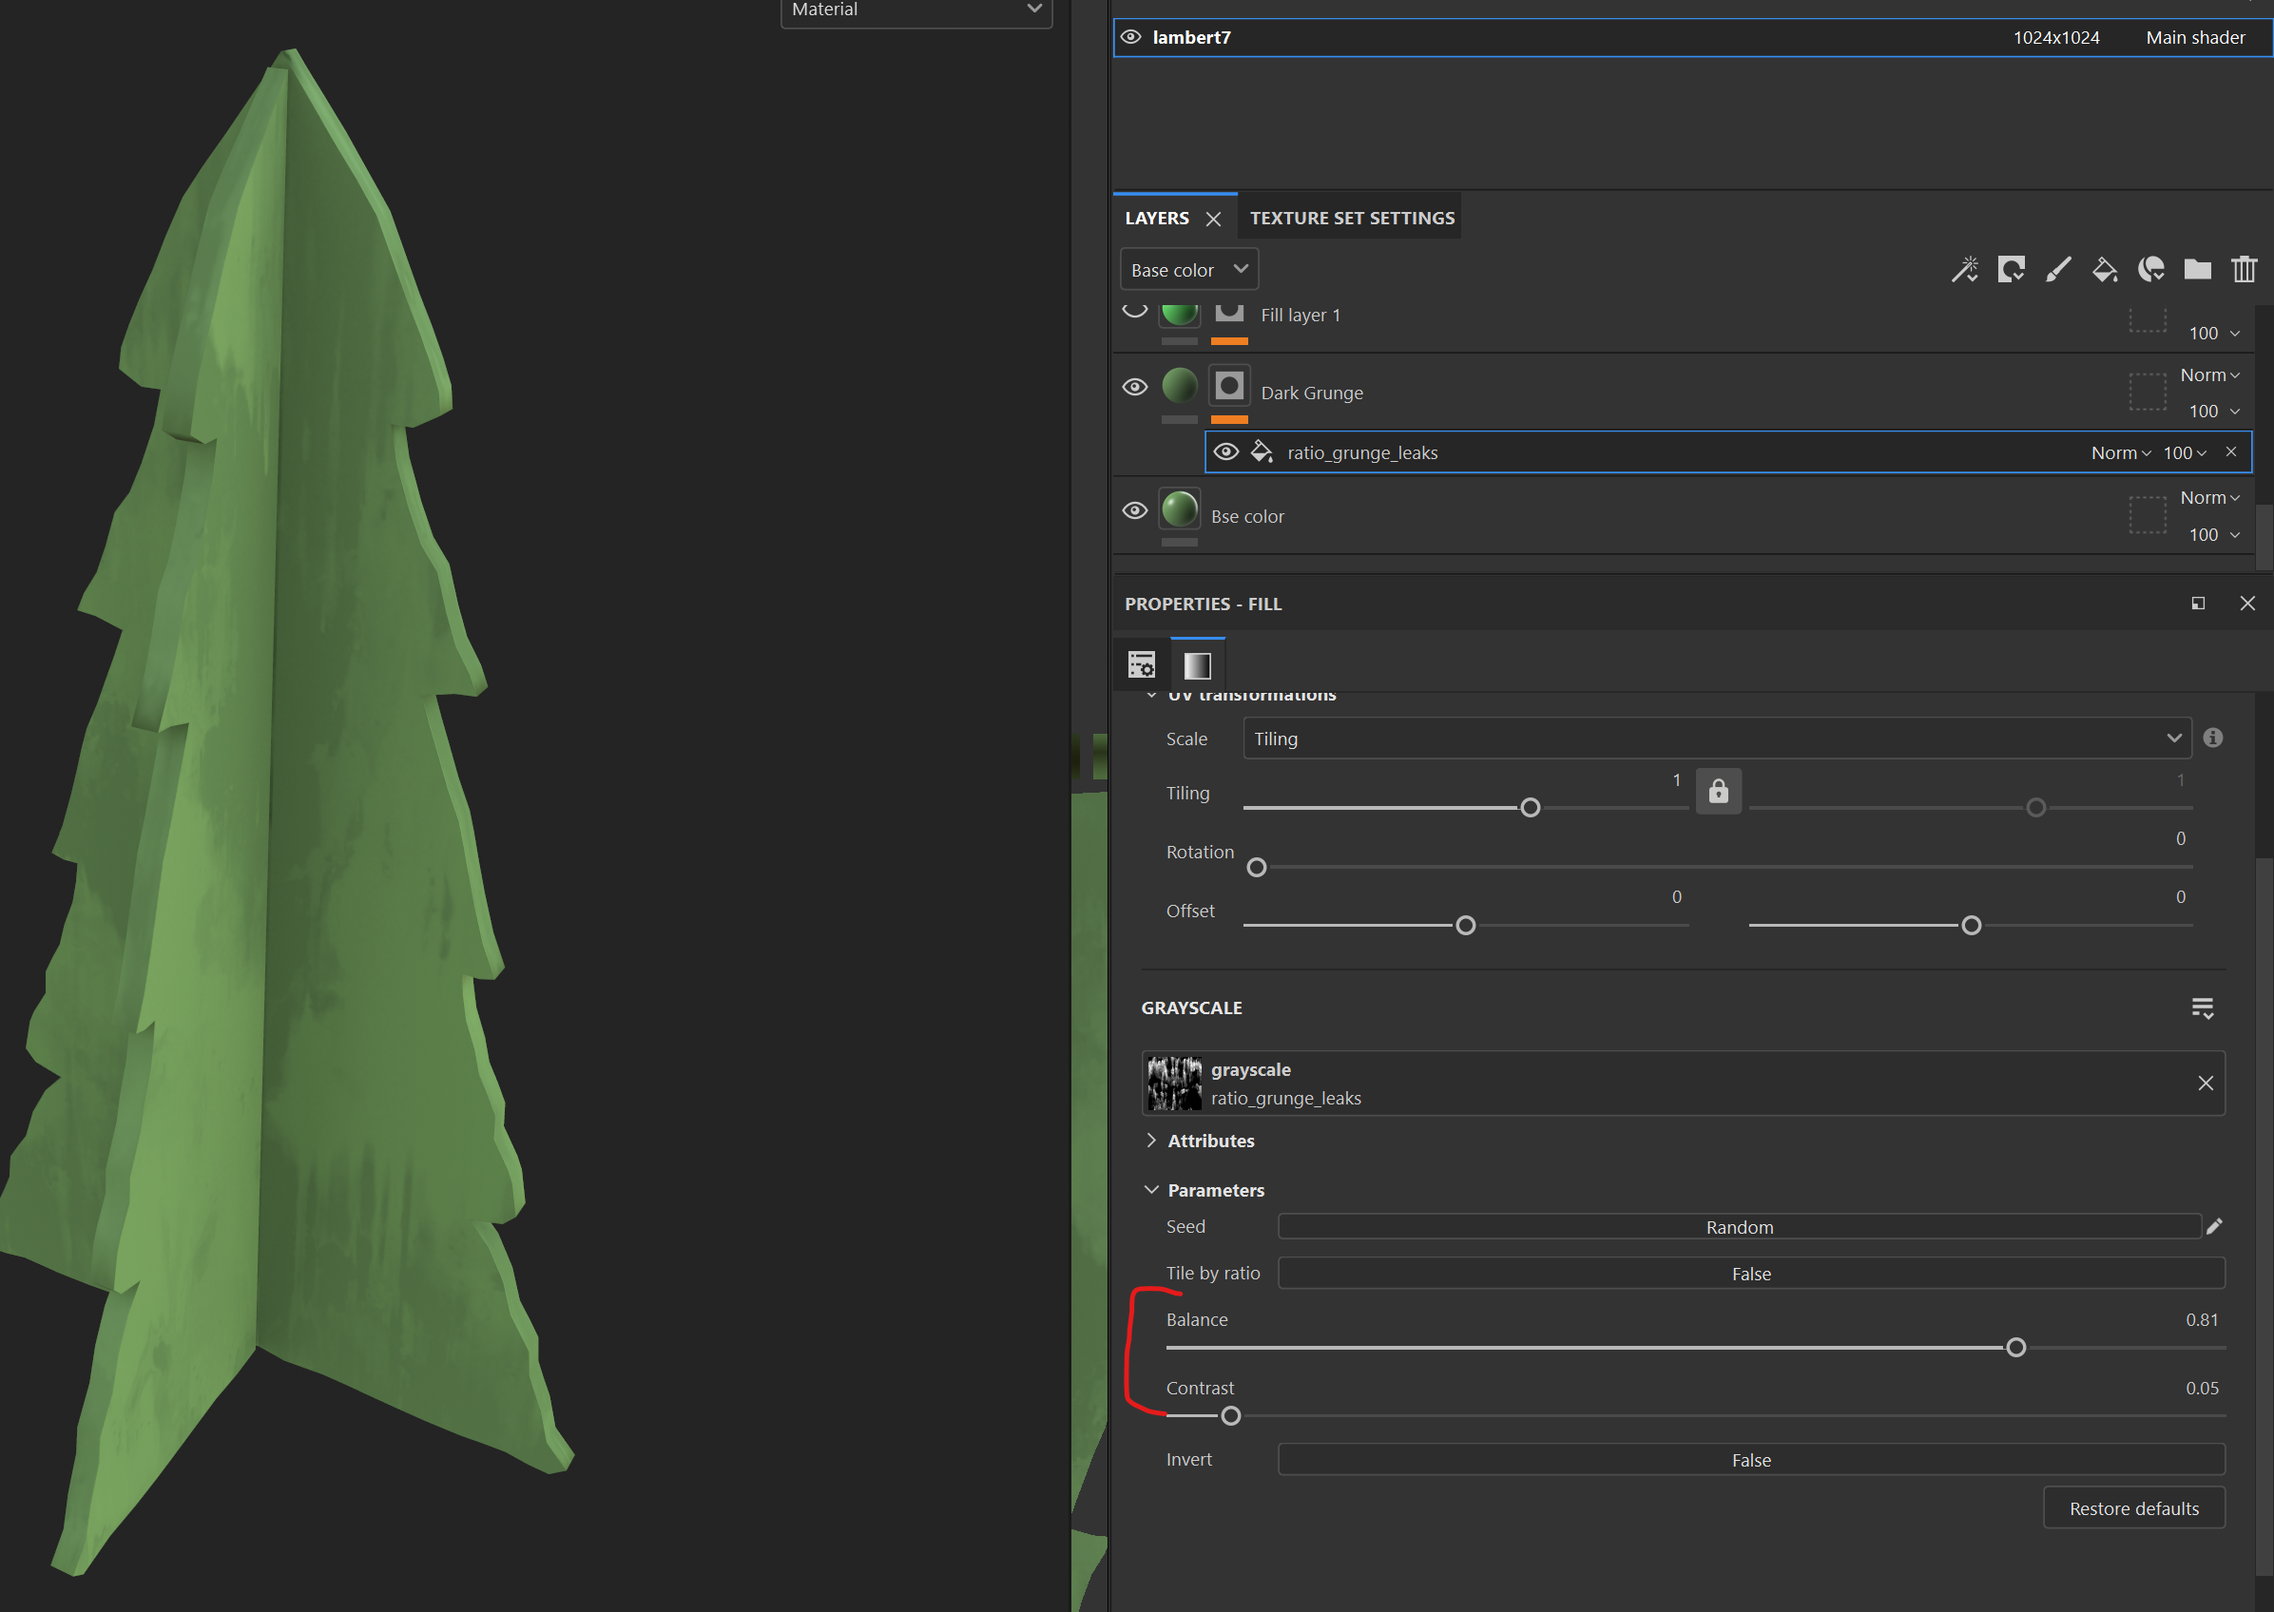
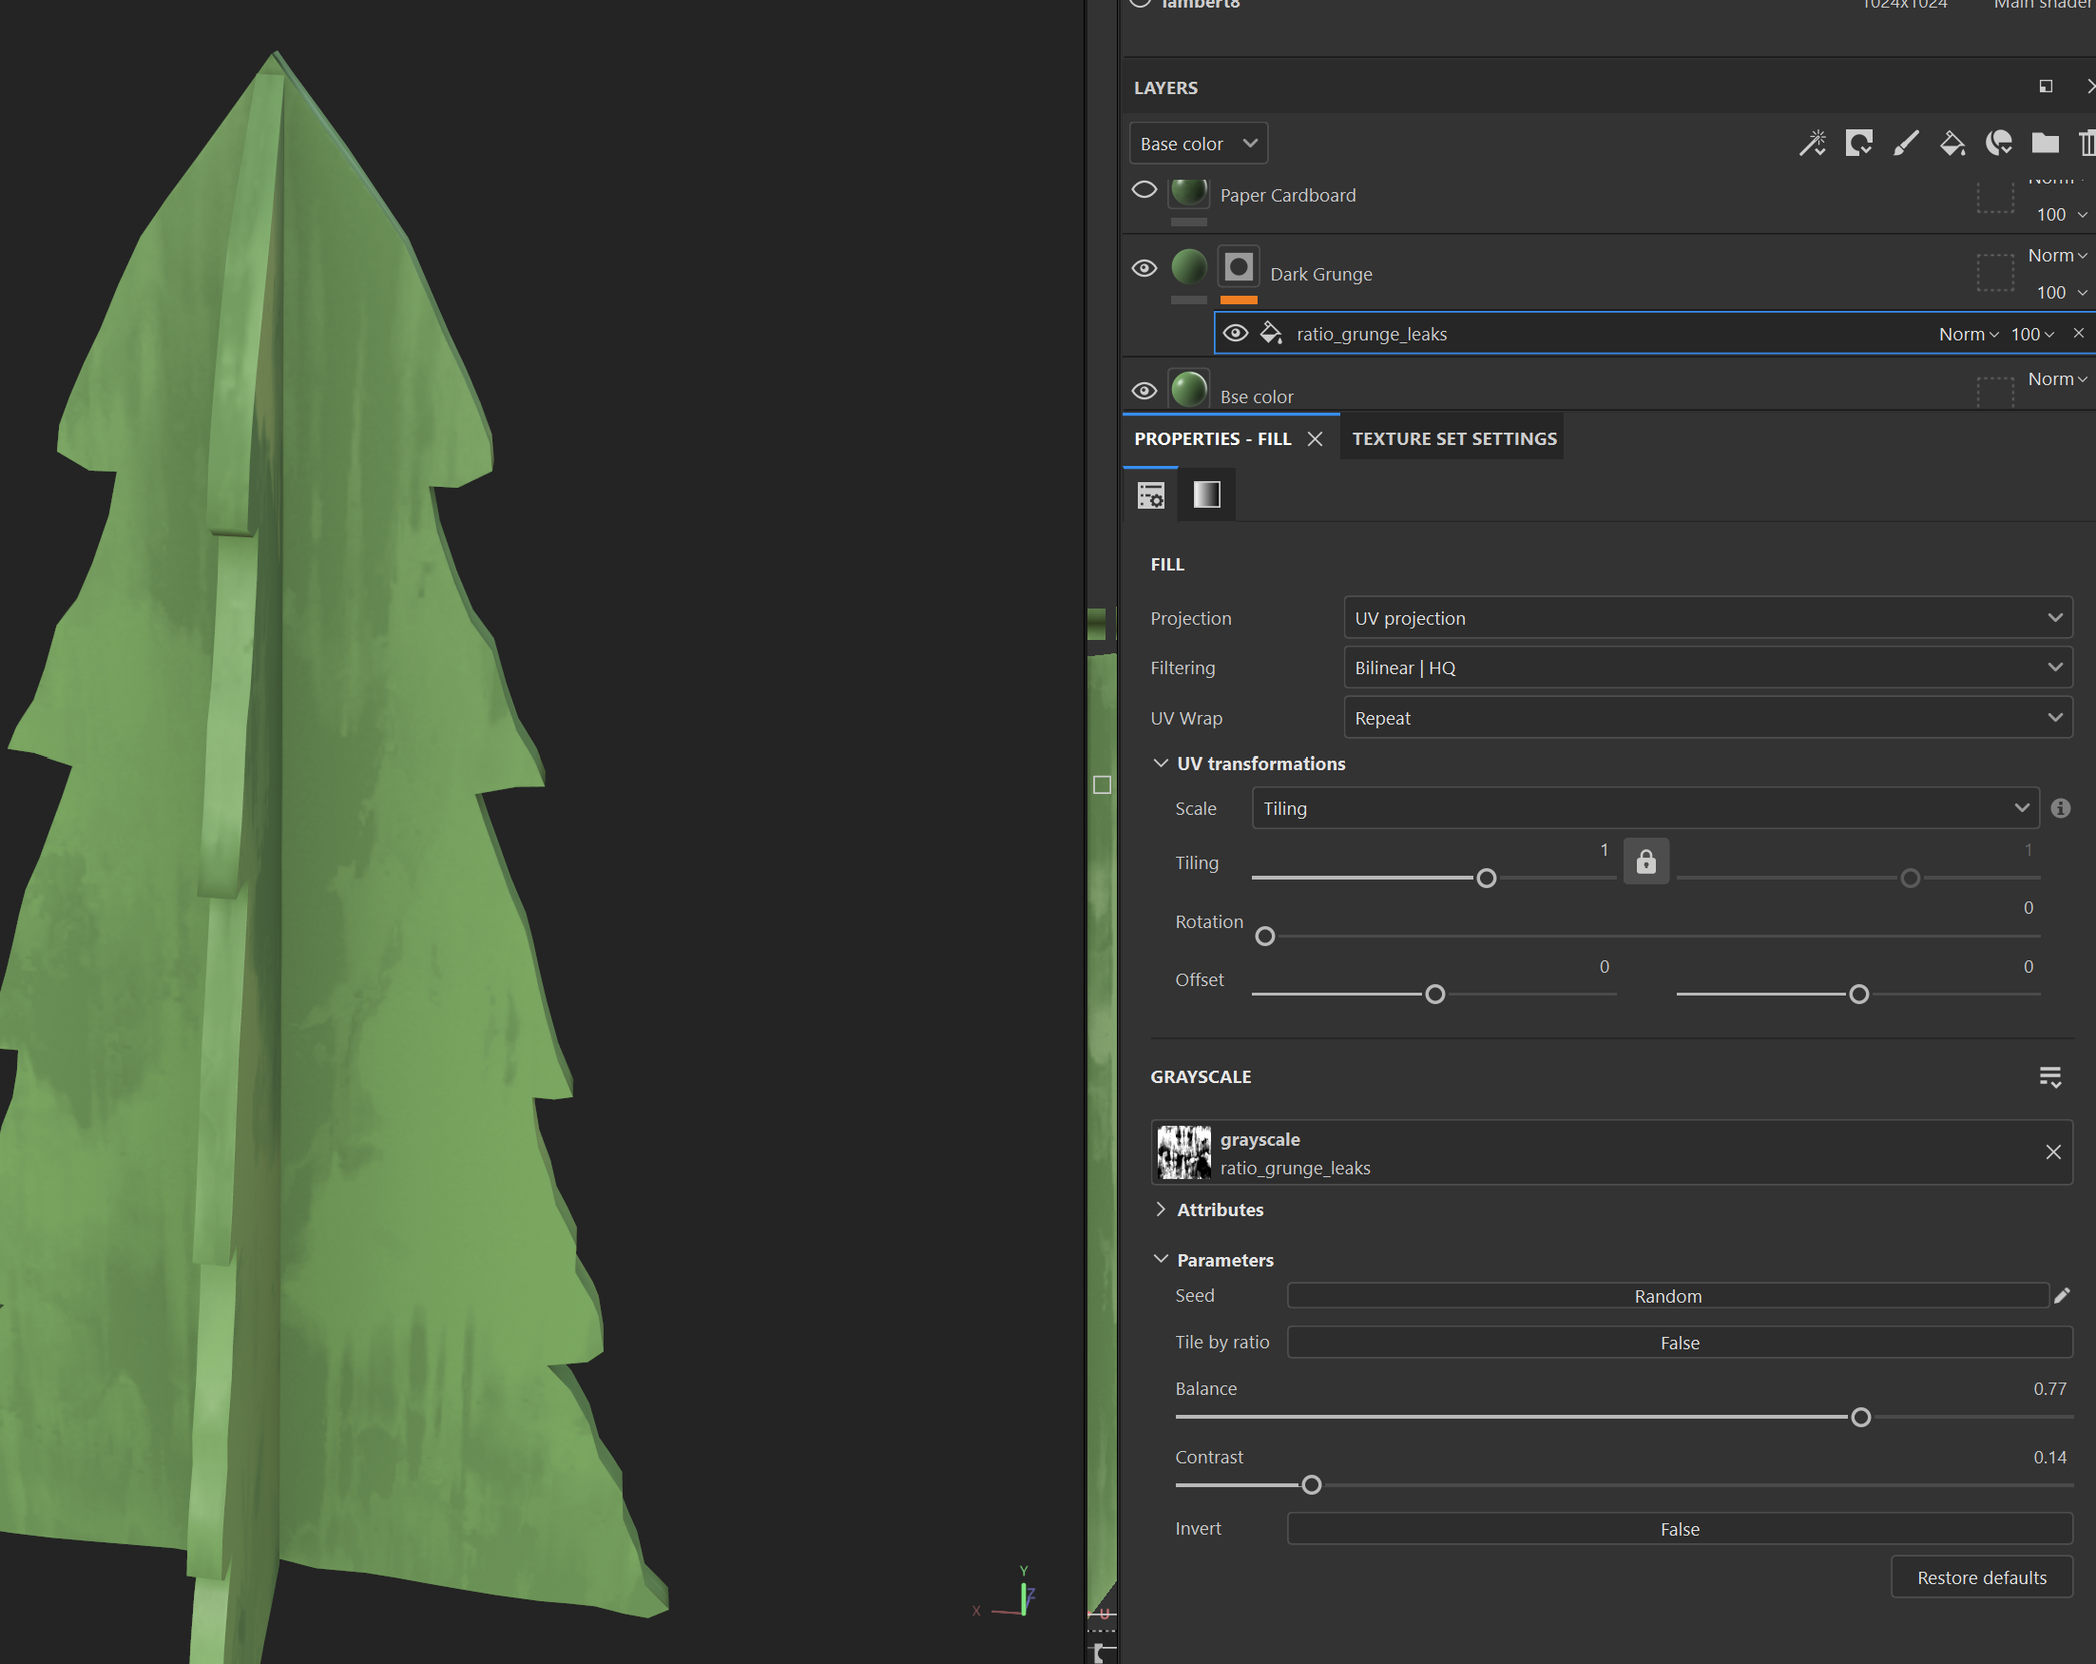
update substance painter lab

diff --git a/ucbugg-site/src/assets/labs/Shading/Advanced/substance painter/Sub_Paint_lab.md b/ucbugg-site/src/assets/labs/Shading/Advanced/substance painter/Sub_Paint_lab.md
@@ -126,6 +126,7 @@ Deselect everything on that fill layer execpt for "color", "Metallic" and, "Roug
 
 Now that we have a solid color, we can start adding varied shades of green in different ways to make it pop out and have texture.
 
+
 # Black and White Masks + layering
 
 Add another fill layer and deselect everything except for roughness and color. Make sure this layer is on top of the previous layer. Rename this to Dark Grunge and select a darker green in the color wheel. This should make your tree go from green to dark green.
@@ -167,6 +168,19 @@ Select the material properties button shown in the picture. From here there are 
 
 ![card2](card2.png)
 
+# Materials
+
+We want a cardboard material so lets search cardboard in the assets tab and ctrl + drag and drop it on the vertex color that is not on the edges of the tree.  
+
+From here drag the layer down so that the cardboard material is behind the grunge.
+
+In the properties tab, we can edit the new preset texture that we put on. Select "Glossy Brown Paper Cardboard" in the preset button under parameters. As we see, there are now cardboard lines on the mesh. Change the color to be green and darker green in "Cardboard Color" and "Inserts Color" respectivly. Play with the sliders and set them to your liking.
+
+![mat2](mat2.png)
+
+![ASasd](ASasd.png)
+
+
 # Generators
 
 Add a fill layer, deselect height and metal, change the color to dirt brown, then add a black mask. Now **in the black mask properties tab**, we right click the layer, and add a generator, then search up dirt and add it.
@@ -192,13 +206,35 @@ Tweak the settings in the mask tab to your liking.
 
 In each fill tab there is a Roughness slider going from 0 (shiny) to 1 (dull).
 
-As we set the roughness to one value in the base color layer, there is no variation in roughness, we need to vary the roughness just like we did the colors. In each layer decide what the roughness of that should be.
+As we set the roughness to one value in the base color layer, there is barely any variation in roughness, we need to vary the roughness just like we did the colors. In each layer decide what the roughness of that should be.
 
-![roughness](roughness.png)
+![asd4.png](asd4.png)
 
 > Since we are making a handpainted cardboard tree, should we make the most recent grunge brushstrokes that are lighter more shiny or less shiny and vice versa for the darker grunge brushstrokes. What about dirt?
 
+# Manual Painting
+
+Lets add a handprint to the tree. Create a fill layer with a black mask. Set it to be a lighter green than your cardboard color. From here click on your black mask and in your assets tab, click on the circular checkboard called "Alphas". Search up handprint and click on it. 
+
+![hand](hand.png)
+
+In the "Properties - Paint" tab when you click on the mask layer, we can see that the handprint that you selected is now the alpha.
+
+
+
+![alpha](alpha.png)
+
+Scroll all the way down untill you see "Grayscale". Set the slider to 1 and click on the mesh to start painting.
+
+> (!info)
+> What this does is it paints the black mask white so that our layer's color can come through. 
+
+
+![asd5](asd5.png)
+
+
 # Star (Optional)
+
 
 Use the vertex colors and to drag and drop a asset material of your choosing. What should the star on the tree look like? Should we make a more metallic star or should we stick with the cardboard theme and make the star also cardboard. Be as creative as you want.
 
@@ -235,7 +271,7 @@ Click the textured button and the smooth shade button on the viewport to view yo
 
 > If your texture is dull it is due to the fact the Maya is not rendering lights and just rendering the base color. If you want lighting like the in the picture, create a volume light and place it above the tree. Finally, select the icon of the lightbulb to the right of the "Use all textures" button in the top of the viewport.
 
-![export6](export6.png)
+![finalrender](finalrender.png)
 
 SAVE YOUR SCENE AS .MA FILE IF YOU HAVE NOT ALREADY! (save your file as often as you can). Screenshot and submit your textured tree.
 
